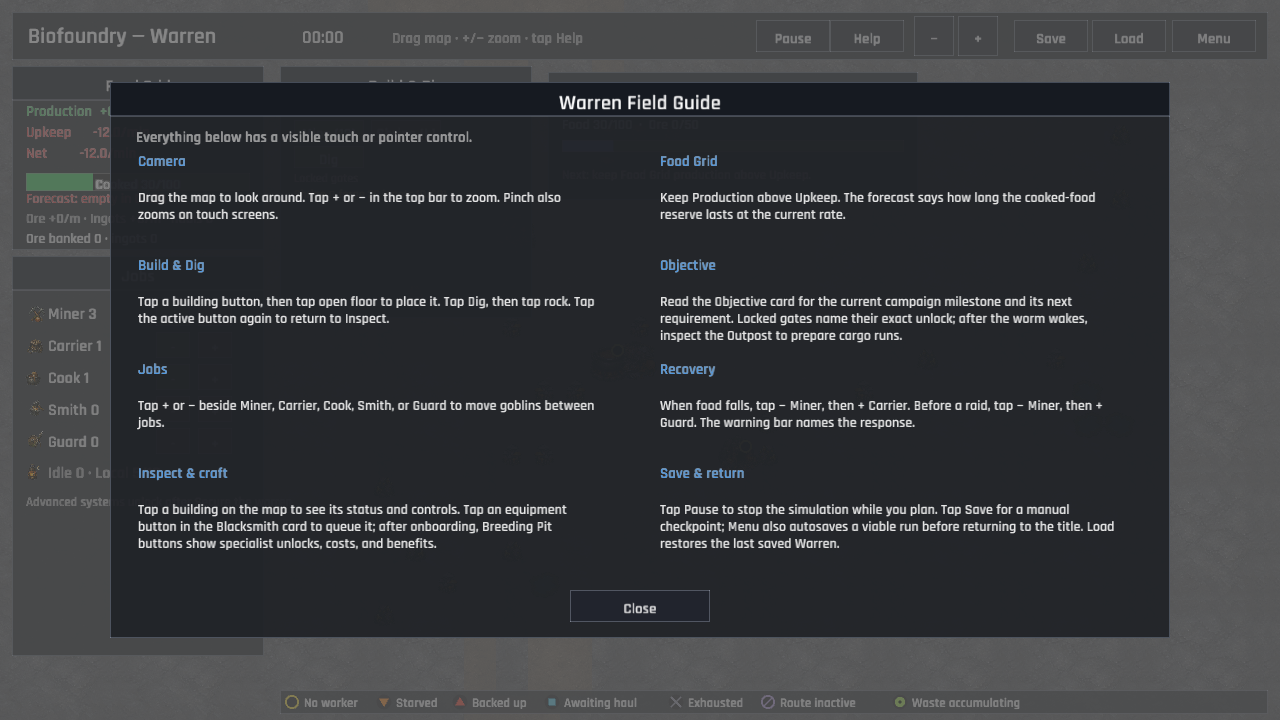
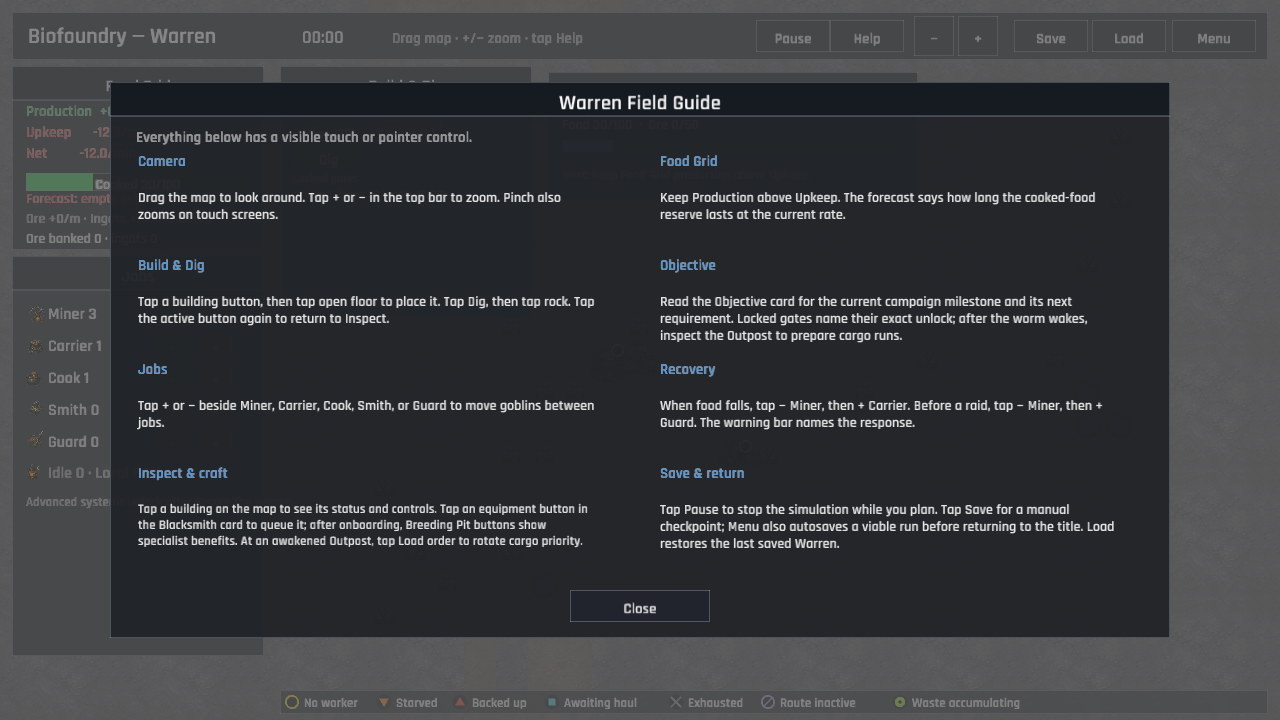
The worm learns to choose its next cargo (Endless route control)
Awakened outposts now let the keeper cycle ore, ingot, and food loading priority before a departure. The setting persists with the route, preserves the old ore-first default, and is explained in the field guide and compact outpost panel.

Changed region(s): [[0.0938, 0.7028, 0.4688, 0.7639]]

diff --git a/src/simulation/outposts.rs b/src/simulation/outposts.rs
@@ -2,7 +2,9 @@
 
 use crate::data::GameData;
 use crate::state::creatures::Good;
-use crate::state::outposts::{Outpost, TransitCompletion, TransitDirection, WormTransit};
+use crate::state::outposts::{
+    CargoPriority, Outpost, TransitCompletion, TransitDirection, WormTransit,
+};
 use crate::state::GameSession;
 use macroquad_toolkit::grid::TilePos;
 
@@ -56,22 +58,17 @@ fn start_transit(
     }
     let cap = data.balance.outpost_storage_cap;
     let (ore, ingots, food) = match direction {
-        TransitDirection::ToOutpost => {
-            let used = outpost.cargo_total();
-            let room = cap.saturating_sub(used);
+        TransitDirection::ToOutpost => load_cargo(
+            outpost,
+            cap,
+            session.economy.ore_stock,
+            session.economy.ingots_stock,
             // Remote cargo is stored in whole units; leave any fractional
             // food behind instead of charging it and truncating it at arrival.
-            let food = (session.economy.food - data.balance.worm_feed_reserve)
+            (session.economy.food - data.balance.worm_feed_reserve)
                 .max(0.0)
-                .min(room as f32)
-                .floor();
-            let ore = session.economy.ore_stock.min(room);
-            let room_after_ore = room.saturating_sub(ore);
-            let ingots = session.economy.ingots_stock.min(room_after_ore);
-            let room_after_ingots = room_after_ore.saturating_sub(ingots);
-            let food = food.min(room_after_ingots as f32);
-            (ore, ingots, food)
-        }
+                .floor() as u32,
+        ),
         TransitDirection::ToShrine => (
             *outpost.cargo.get(&Good::Ore).unwrap_or(&0),
             *outpost.cargo.get(&Good::Ingot).unwrap_or(&0),
@@ -130,6 +127,51 @@ fn start_transit(
     });
     session.last_transit_failure = None;
     true
+}
+
+/// Fill an outbound hold according to the player's selected priority. Food
+/// has already been reduced to the amount above the protected local reserve.
+fn load_cargo(
+    outpost: &Outpost,
+    capacity: u32,
+    ore_available: u32,
+    ingots_available: u32,
+    food_available: u32,
+) -> (u32, u32, f32) {
+    let mut room = capacity.saturating_sub(outpost.cargo_total());
+    let mut ore = 0;
+    let mut ingots = 0;
+    let mut food = 0;
+    for kind in priority_order(outpost.cargo_priority) {
+        let available = match kind {
+            CargoKind::Ore => ore_available,
+            CargoKind::Ingots => ingots_available,
+            CargoKind::Food => food_available,
+        };
+        let take = available.min(room);
+        match kind {
+            CargoKind::Ore => ore = take,
+            CargoKind::Ingots => ingots = take,
+            CargoKind::Food => food = take,
+        }
+        room -= take;
+    }
+    (ore, ingots, food as f32)
+}
+
+#[derive(Clone, Copy)]
+enum CargoKind {
+    Ore,
+    Ingots,
+    Food,
+}
+
+fn priority_order(priority: CargoPriority) -> [CargoKind; 3] {
+    match priority {
+        CargoPriority::Ore => [CargoKind::Ore, CargoKind::Ingots, CargoKind::Food],
+        CargoPriority::Ingots => [CargoKind::Ingots, CargoKind::Ore, CargoKind::Food],
+        CargoPriority::Food => [CargoKind::Food, CargoKind::Ore, CargoKind::Ingots],
+    }
 }
 
 pub fn tick_transit(

diff --git a/src/simulation/tests/novel.rs b/src/simulation/tests/novel.rs
@@ -3,7 +3,7 @@
 use super::boot;
 use crate::simulation::{self, outposts, SIM_DT};
 use crate::state::creatures::{Good, Job, Task};
-use crate::state::outposts::TransitDirection;
+use crate::state::outposts::{CargoPriority, TransitDirection};
 use crate::state::structures::Building;
 use macroquad_toolkit::grid::TilePos;
 
@@ -462,6 +462,32 @@ fn worm_transit_appends_new_cargo_to_existing_remote_stacks() {
 }
 
 #[test]
+fn worm_transit_fills_the_hold_in_the_selected_cargo_order() {
+    let (data, mut session, outpost_pos) = active_outpost(26);
+    session.creatures.clear();
+    session.economy.food = data.balance.worm_feed_reserve + 6.0;
+    session.economy.ore_stock = 0;
+    session.economy.ingots_stock = 0;
+    session.outposts[0].cargo_priority = CargoPriority::Food;
+
+    assert!(outposts::start_to_outpost(&mut session, &data, outpost_pos));
+    let transit = session.worm_transit.as_ref().expect("cargo is in transit");
+    assert_eq!(transit.food, 6.0);
+    assert_eq!(transit.ore, 0);
+    assert_eq!(transit.ingots, 0);
+
+    session.worm_transit = None;
+    session.economy.ore_stock = 20;
+    session.economy.ingots_stock = 20;
+    session.outposts[0].cargo_priority = CargoPriority::Ingots;
+    assert!(outposts::start_to_outpost(&mut session, &data, outpost_pos));
+    let transit = session.worm_transit.as_ref().expect("cargo is in transit");
+    assert_eq!(transit.ingots, data.balance.outpost_storage_cap);
+    assert_eq!(transit.ore, 0);
+    assert_eq!(transit.food, 0.0);
+}
+
+#[test]
 fn simulation_reports_arrival_after_a_cargo_run_completes() {
     let (data, mut session, outpost_pos) = active_outpost(22);
     session.economy.ore_stock = 1;
@@ -484,6 +510,7 @@ fn simulation_reports_arrival_after_a_cargo_run_completes() {
 #[test]
 fn in_flight_worm_transit_survives_a_save_roundtrip() {
     let (data, mut session, outpost_pos) = active_outpost(21);
+    session.outposts[0].cargo_priority = CargoPriority::Food;
     session.economy.ore_stock = 3;
     assert!(outposts::start_to_outpost(&mut session, &data, outpost_pos));
 
@@ -499,4 +526,5 @@ fn in_flight_worm_transit_survives_a_save_roundtrip() {
         data.balance.outpost_capacity as usize
     );
     assert!(restored.outposts[0].active);
+    assert_eq!(restored.outposts[0].cargo_priority, CargoPriority::Food);
 }

diff --git a/src/state/outposts.rs b/src/state/outposts.rs
@@ -5,11 +5,42 @@ use macroquad_toolkit::grid::TilePos;
 use serde::{Deserialize, Serialize};
 use std::collections::HashMap;
 
+/// The order in which an outbound worm route fills its limited cargo hold.
+/// The default preserves the original route behavior: ore, then ingots, then
+/// food above the reserve.
+#[derive(Debug, Clone, Copy, Default, PartialEq, Eq, Serialize, Deserialize)]
+pub enum CargoPriority {
+    #[default]
+    Ore,
+    Ingots,
+    Food,
+}
+
+impl CargoPriority {
+    pub fn next(self) -> Self {
+        match self {
+            Self::Ore => Self::Ingots,
+            Self::Ingots => Self::Food,
+            Self::Food => Self::Ore,
+        }
+    }
+
+    pub fn label(self) -> &'static str {
+        match self {
+            Self::Ore => "Ore first",
+            Self::Ingots => "Ingots first",
+            Self::Food => "Food first",
+        }
+    }
+}
+
 #[derive(Debug, Clone, Serialize, Deserialize)]
 pub struct Outpost {
     pub pos: TilePos,
     #[serde(default)]
     pub active: bool,
+    #[serde(default)]
+    pub cargo_priority: CargoPriority,
     #[serde(default)]
     pub cargo: HashMap<Good, u32>,
     #[serde(default)]
@@ -23,6 +54,7 @@ impl Outpost {
         Self {
             pos,
             active: false,
+            cargo_priority: CargoPriority::default(),
             cargo: HashMap::new(),
             crew: Vec::new(),
             last_failure: None,
@@ -32,7 +64,14 @@ impl Outpost {
     pub fn cargo_total(&self) -> u32 {
         self.cargo.values().sum()
     }
+
+    pub fn cycle_cargo_priority(&mut self) {
+        self.cargo_priority = self.cargo_priority.next();
+    }
 }
+
+#[cfg(test)]
+mod tests;
 
 #[derive(Debug, Clone, Copy, PartialEq, Eq, Serialize, Deserialize)]
 pub enum TransitDirection {

diff --git a/src/game_actions.rs b/src/game_actions.rs
@@ -185,6 +185,24 @@ impl Game {
                     }
                 }
             }
+            UiAction::CycleOutpostCargo(pos) => {
+                if let GameState::Warren(session) = &mut self.state {
+                    if session
+                        .building_at(pos)
+                        .is_some_and(|building| building.kind == "outpost")
+                    {
+                        session.ensure_outpost(pos);
+                        if let Some(outpost) = session.outposts.iter_mut().find(|o| o.pos == pos) {
+                            outpost.cycle_cargo_priority();
+                            self.notifications.info(format!(
+                                "Outbound cargo order: {}.",
+                                outpost.cargo_priority.label()
+                            ));
+                            self.audio.play(Sfx::Select);
+                        }
+                    }
+                }
+            }
             UiAction::TransitToOutpost(pos) | UiAction::TransitToShrine(pos) => {
                 let mut transit_started = false;
                 if let GameState::Warren(session) = &mut self.state {

diff --git a/src/ui/hud/inspect.rs b/src/ui/hud/inspect.rs
@@ -528,6 +528,18 @@ pub(super) fn draw_inspect_panel(
                         actions.push(UiAction::TransitToShrine(pos));
                     }
                     y += 28.0;
+                    let priority = outpost
+                        .map(|route| route.cargo_priority.label())
+                        .unwrap_or("Ore first");
+                    if hud_button(
+                        Rect::new(x, y, panel.w - 28.0, 24.0),
+                        &format!("Load order · {priority}"),
+                        session.worm_transit.is_none(),
+                        mouse,
+                    ) {
+                        actions.push(UiAction::CycleOutpostCargo(pos));
+                    }
+                    y += 28.0;
                     if hud_button(
                         Rect::new(x, y, panel.w - 28.0, 24.0),
                         "Load outpost from warren",

diff --git a/src/ui/hud/overlays.rs b/src/ui/hud/overlays.rs
@@ -11,7 +11,7 @@ use macroquad_toolkit::prelude::*;
 use macroquad_toolkit::ui::draw_ui_text_ex;
 
 const INSPECT_HELP_BODY: &str =
-    "Tap a building on the map to see its status and controls. Tap an equipment button in the Blacksmith card to queue it; after onboarding, Breeding Pit buttons show specialist unlocks, costs, and benefits.";
+    "Tap a building on the map to see its status and controls. Tap an equipment button in the Blacksmith card to queue it; after onboarding, Breeding Pit buttons show specialist benefits. At an awakened Outpost, tap Load order to rotate cargo priority.";
 const OBJECTIVE_HELP_BODY: &str =
     "Read the Objective card for the current campaign milestone and its next requirement. Locked gates name their exact unlock; after the worm wakes, inspect the Outpost to prepare cargo runs.";
 

diff --git a/src/state/outposts/tests.rs b/src/state/outposts/tests.rs
@@ -1,0 +1,22 @@
+use super::*;
+use macroquad_toolkit::grid::TilePos;
+
+#[test]
+fn new_outpost_defaults_to_ore_first_loading() {
+    let outpost = Outpost::new(TilePos::new(4, 4));
+
+    assert_eq!(outpost.cargo_priority, CargoPriority::Ore);
+    assert_eq!(outpost.cargo_priority.label(), "Ore first");
+}
+
+#[test]
+fn cargo_priority_cycles_in_a_predictable_loop() {
+    assert_eq!(CargoPriority::Ore.next(), CargoPriority::Ingots);
+    assert_eq!(CargoPriority::Ingots.next(), CargoPriority::Food);
+    assert_eq!(CargoPriority::Food.next(), CargoPriority::Ore);
+
+    let mut outpost = Outpost::new(TilePos::new(4, 4));
+    outpost.cycle_cargo_priority();
+    outpost.cycle_cargo_priority();
+    assert_eq!(outpost.cargo_priority, CargoPriority::Food);
+}

diff --git a/src/ui/hud/inspect/tests.rs b/src/ui/hud/inspect/tests.rs
@@ -1,5 +1,6 @@
 use super::*;
 use crate::state::creatures::Job;
+use crate::state::outposts::CargoPriority;
 use crate::state::structures::Building;
 
 fn shrine_session() -> (GameData, GameSession, TilePos) {
@@ -453,6 +454,13 @@ fn outpost_return_label_names_each_payload_kind() {
     assert_eq!(outpost_return_label(6, 0), "Send 6 cargo to shrine");
     assert_eq!(outpost_return_label(0, 4), "Send 4 crew to shrine");
     assert_eq!(outpost_return_label(0, 0), "No cargo or crew to return");
+}
+
+#[test]
+fn outpost_cargo_priority_labels_are_player_readable() {
+    assert_eq!(CargoPriority::Ore.label(), "Ore first");
+    assert_eq!(CargoPriority::Ingots.label(), "Ingots first");
+    assert_eq!(CargoPriority::Food.label(), "Food first");
 }
 
 #[test]

diff --git a/src/ui.rs b/src/ui.rs
@@ -55,6 +55,8 @@ pub enum UiAction {
     Breed(String),
     ToggleShrineFeeding(TilePos),
     ActivateOutpost(TilePos),
+    /// Rotate the outbound cargo fill order for an awakened worm route.
+    CycleOutpostCargo(TilePos),
     TransitToOutpost(TilePos),
     TransitToShrine(TilePos),
     DismissVictory,

diff --git a/src/ui/hud/overlays/tests.rs b/src/ui/hud/overlays/tests.rs
@@ -33,6 +33,7 @@ fn field_guide_explains_breeding_specialists() {
     assert!(INSPECT_HELP_BODY.contains("Breeding Pit"));
     assert!(INSPECT_HELP_BODY.contains("after onboarding"));
     assert!(INSPECT_HELP_BODY.contains("benefits"));
+    assert!(INSPECT_HELP_BODY.contains("Load order"));
 }
 
 #[test]
